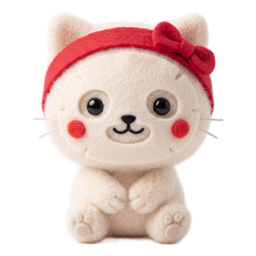
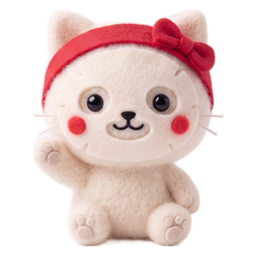
吉祥物 6 个表情：打招呼/举手机/欢呼/嘘/打瞌睡/比心

diff --git a/rekam.html b/rekam.html
@@ -204,7 +204,7 @@ const mobile = /iPhone|iPad|iPod|Android|Mobi/i.test(navigator.userAgent);
 const inApp = /FBAN|FBAV|Instagram|Line\/|MicroMessenger|Lark|WhatsApp|TikTok|Musical/i.test(navigator.userAgent) || !navigator.mediaDevices?.getUserMedia;
 
 // ===== 吉祥物：毛绒面膜猫（img/maskot_*.png，Nano Banana 出图后抠底，11-05）。表情：hi 打招呼 / go 举手机 / yay 欢呼 / wink 嘘 / zz 打瞌睡 / love 比心；没切出来的先用 hi =====
-const MASKOT = { hi: "maskot_hi.png", go: "maskot_hi.png", yay: "maskot_hi.png", wink: "maskot_hi.png", zz: "maskot_hi.png", love: "maskot_hi.png" };
+const MASKOT = { hi: "maskot_hi.png", go: "maskot_go.png", yay: "maskot_yay.png", wink: "maskot_wink.png", zz: "maskot_zz.png", love: "maskot_love.png" };
 function cici(mood = "hi") { return `<img class="maskot" src="img/${MASKOT[mood] || MASKOT.hi}" alt="" width="64" height="64" decoding="async">`; }
 const bubble = (html, mood, big) => `<div class="cici ${big ? "lg" : ""}">${cici(mood)}<div class="bubble">${html}</div></div>`;
 const backIcon = `<svg viewBox="0 0 24 24" fill="none" stroke="currentColor" stroke-width="2.4" stroke-linecap="round" stroke-linejoin="round"><path d="M15 5l-7 7 7 7"/></svg>`;
@@ -337,7 +337,7 @@ function renderLogin() {
     </div>`;
 }
 function renderScripts() {
-  if (assignedIds === null) { loadLib().then(render); return `${topbar(t("yourScripts"), esc(name), false)}<div class="mid center">${bubble("…", "hi")}</div>`; }
+  if (assignedIds === null) { loadLib().then(render); return `${topbar(t("yourScripts"), esc(name), false)}<div class="mid center">${bubble("…", "zz")}</div>`; }
   const items = assignedIds.map(id => lib.find(x => x.id === id) || backendMeta[id] || { id, product: { zh: id, id } });
   const prog = id => { const c = store.get("cur_" + id, 0); return c; };
   return `${topbar(t("yourScripts"), esc(profile?.handle ? "@" + profile.handle : profile?.name || ""), false)}
@@ -398,7 +398,7 @@ function renderOverview() {
   return `${topbar(t("overview"), esc(L(script.product)), true)}
     ${prog()}
     <div class="mid">
-      ${bubble(say, uploading ? "go" : (!missing && !pending) ? "yay" : "hi")}
+      ${bubble(say, uploading ? "go" : (!missing && !pending) ? "love" : "hi")}
       <div class="card scroll" style="flex:1;padding-block:4px">
         <ul class="list">${script.shots.map((s, i) => { const tk = takes[i];
           const st = !tk?.blob ? `<span class="st bad">${t("stMissing")}</span>` : tk.up === "done" ? `<span class="st ok">✓ ${t("stSent")}</span>` : tk.up === "busy" ? `<span class="st"><i class="spin"></i>${t("stSending")}</span>` : tk.up === "fail" ? `<span class="st bad">${t("stFail")}</span>` : `<span class="st"><i class="spin"></i>${t("stSending")}</span>`;
